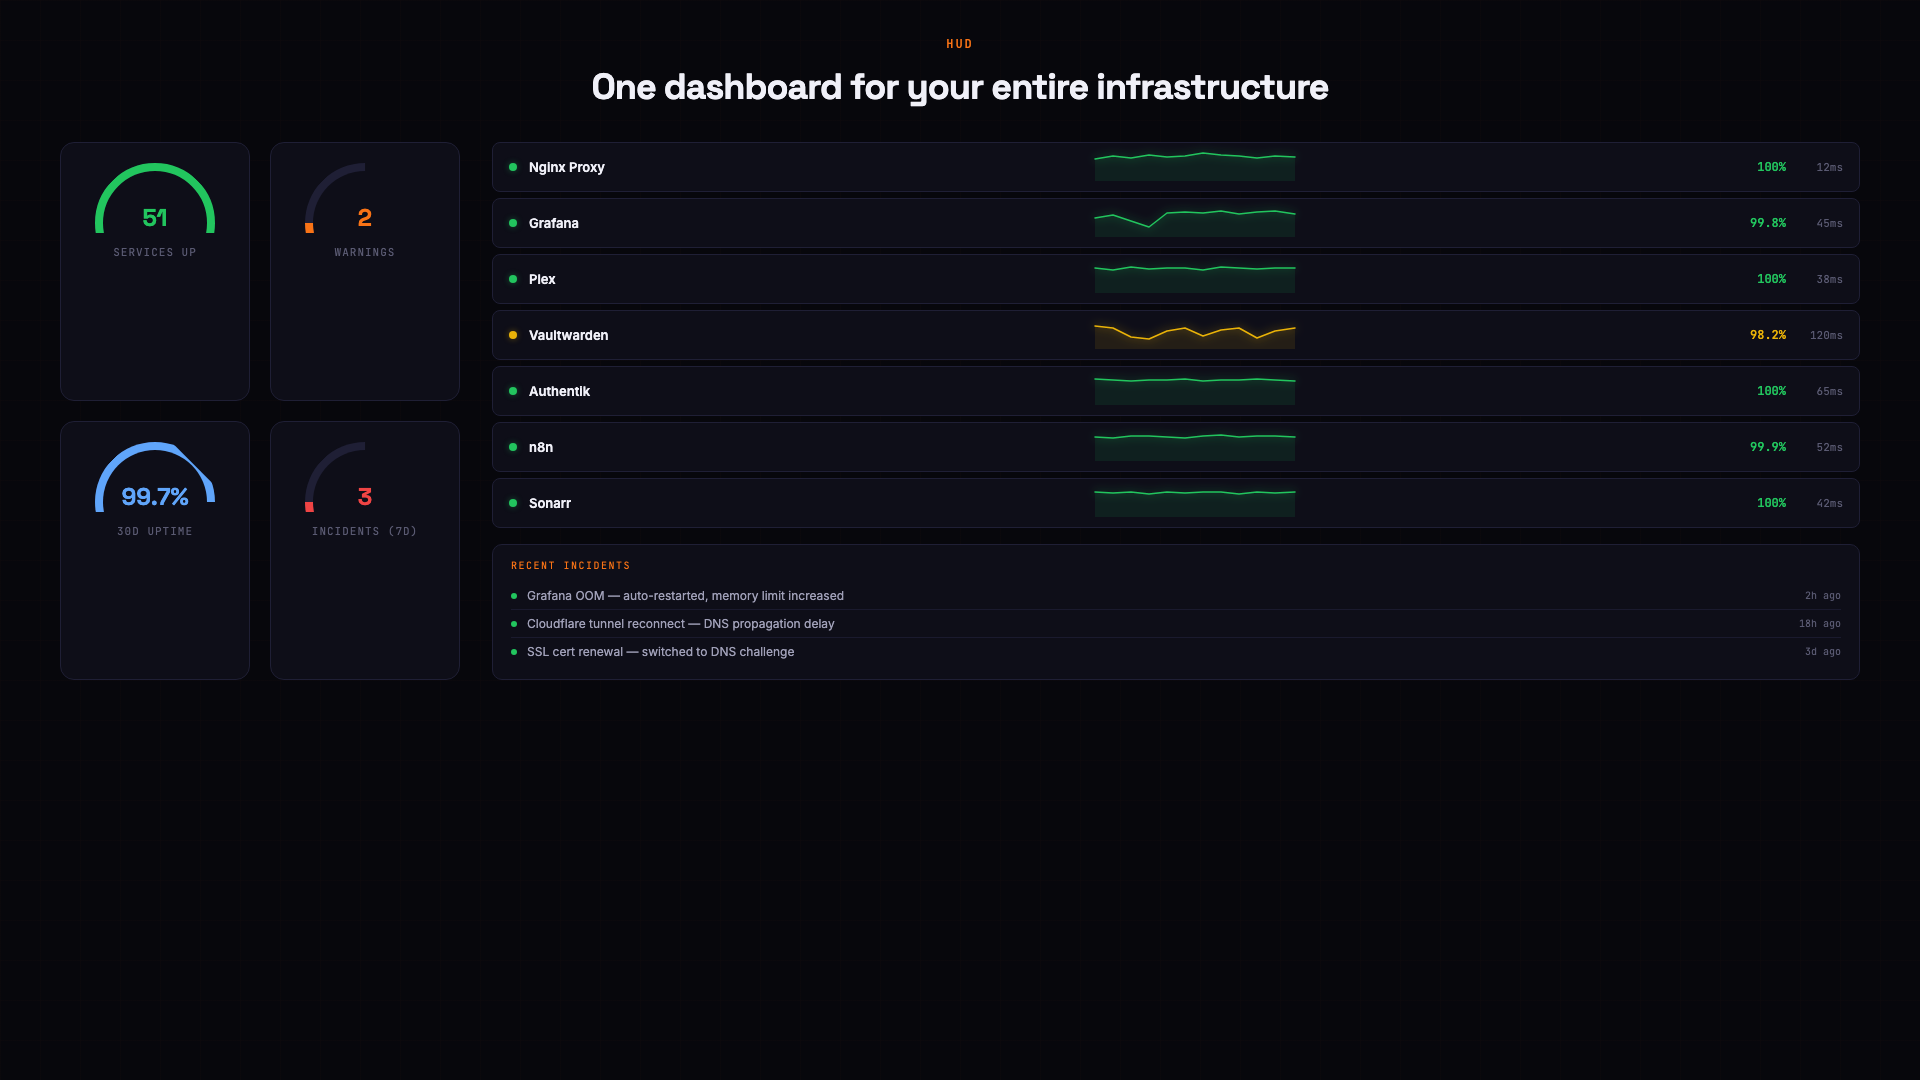
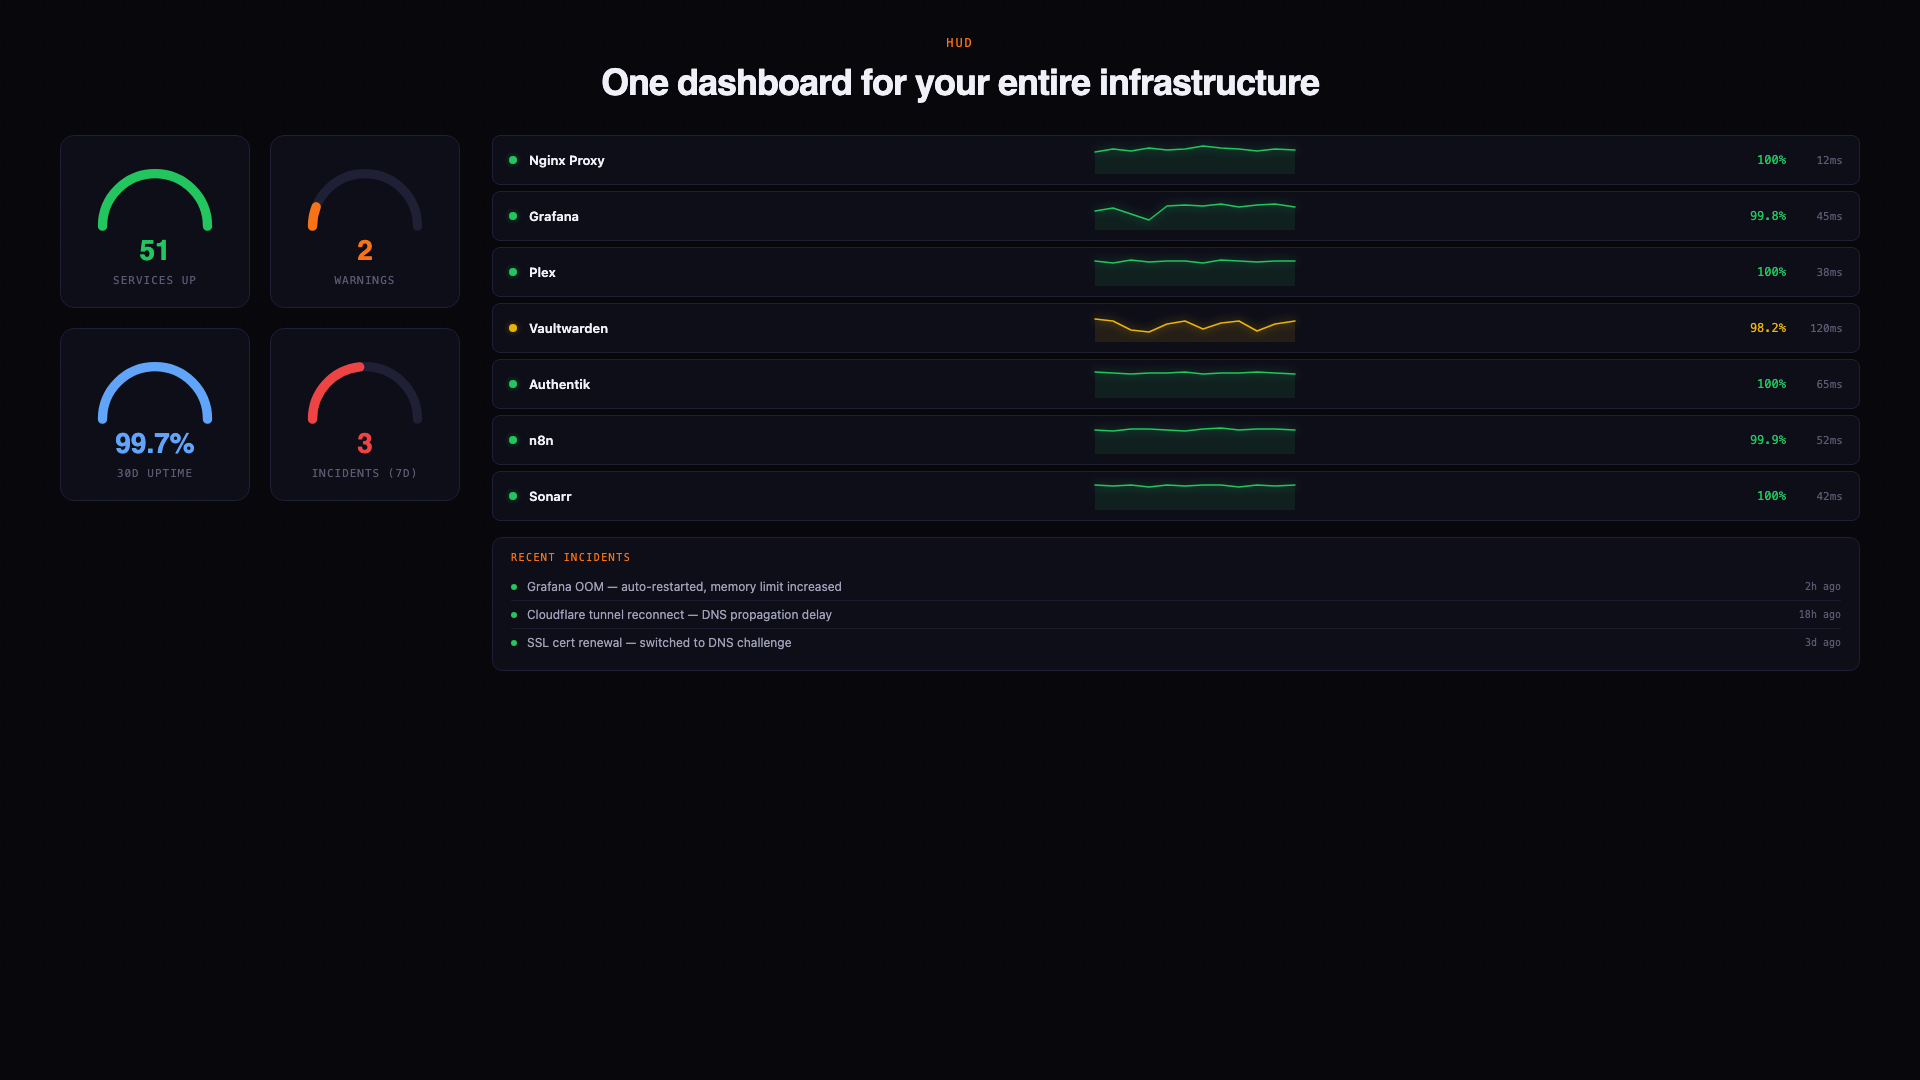
Scanner CSRF fix, HUD self-host SSRF bypass, gauge dashboard
- Skip CSRF origin check for Bearer-auth scanner API paths
- Gate SSRF blocklist on STDOUT_MODE (off in selfhost)
- Replace flat summary cards with 4 SVG arc gauges
- SVG line sparklines with gradient fill on service rows
- Recent incidents panel below service list
- Sticky gauge layout with scrollable service list
- Updated PH gallery mockup + screenshot to match real HUD

diff --git a/ph-gallery/05-hud-dashboard.html b/ph-gallery/05-hud-dashboard.html
@@ -69,6 +69,7 @@
     gap: 20px;
     flex-shrink: 0;
     width: 400px;
+    align-content: start;
   }
 
   .gauge-card {
@@ -79,57 +80,22 @@
     text-align: center;
   }
 
-  .gauge {
-    position: relative;
-    width: 120px;
-    height: 70px;
-    margin: 0 auto 12px;
-    overflow: hidden;
+  .gauge-ring {
+    display: flex;
+    flex-direction: column;
+    align-items: center;
   }
 
-  .gauge-bg {
-    position: absolute;
-    top: 0;
-    left: 0;
-    width: 120px;
-    height: 120px;
-    border-radius: 50%;
-    border: 8px solid #1F1F35;
-    border-bottom-color: transparent;
-    border-left-color: transparent;
-    transform: rotate(225deg);
+  .gauge-svg {
+    width: 140px;
+    height: 82px;
   }
-
-  .gauge-fill {
-    position: absolute;
-    top: 0;
-    left: 0;
-    width: 120px;
-    height: 120px;
-    border-radius: 50%;
-    border: 8px solid transparent;
-    border-top-color: var(--color);
-    border-right-color: var(--color);
-    border-bottom-color: transparent;
-    border-left-color: transparent;
-    transform: rotate(225deg);
-    clip-path: polygon(0 0, 100% 0, 100% 100%, 0 100%);
-  }
-
-  .gauge-fill.pct-100 { transform: rotate(225deg); border-bottom-color: var(--color); border-left-color: var(--color); }
-  .gauge-fill.pct-99 { transform: rotate(225deg); border-bottom-color: var(--color); clip-path: polygon(0 0, 100% 0, 100% 95%, 0 95%); }
-  .gauge-fill.pct-75 { transform: rotate(225deg); }
-  .gauge-fill.pct-50 { transform: rotate(225deg); border-right-color: transparent; }
 
   .gauge-value {
-    position: absolute;
-    bottom: 0;
-    left: 0;
-    right: 0;
     font-family: 'Space Grotesk', sans-serif;
-    font-size: 24px;
+    font-size: 28px;
     font-weight: 700;
-    text-align: center;
+    margin-top: -4px;
   }
 
   .gauge-label {
@@ -138,6 +104,7 @@
     color: #5A5A72;
     text-transform: uppercase;
     letter-spacing: 1px;
+    margin-top: 8px;
   }
 
   /* Right side — services + incidents */
@@ -204,9 +171,7 @@
   .spark-line.green { stroke: #22C55E; filter: drop-shadow(0 0 4px rgba(34, 197, 94, 0.6)); }
   .spark-line.yellow { stroke: #EAB308; filter: drop-shadow(0 0 4px rgba(234, 179, 8, 0.6)); }
 
-  .spark-area {
-    opacity: 0.1;
-  }
+  .spark-area { opacity: 0.1; }
   .spark-area.green { fill: #22C55E; }
   .spark-area.yellow { fill: #EAB308; }
 
@@ -288,40 +253,52 @@
   </div>
 
   <div class="dashboard">
-    <!-- Left: Gauge dials -->
+    <!-- Left: SVG Gauge dials -->
     <div class="gauges">
       <div class="gauge-card">
-        <div class="gauge">
-          <div class="gauge-bg"></div>
-          <div class="gauge-fill pct-100" style="--color: #22C55E;"></div>
-          <div class="gauge-value" style="color: #22C55E;">51</div>
+        <div class="gauge-ring">
+          <svg viewBox="0 0 120 70" class="gauge-svg">
+            <path d="M 15 60 A 45 45 0 1 1 105 60" fill="none" stroke="#1F1F35" stroke-width="8" stroke-linecap="round" />
+            <path d="M 15 60 A 45 45 0 1 1 105 60" fill="none" stroke="#22C55E" stroke-width="8" stroke-linecap="round"
+              stroke-dasharray="220 999" />
+          </svg>
+          <span class="gauge-value" style="color: #22C55E;">51</span>
         </div>
         <div class="gauge-label">Services Up</div>
       </div>
 
       <div class="gauge-card">
-        <div class="gauge">
-          <div class="gauge-bg"></div>
-          <div class="gauge-fill pct-50" style="--color: #F97316;"></div>
-          <div class="gauge-value" style="color: #F97316;">2</div>
+        <div class="gauge-ring">
+          <svg viewBox="0 0 120 70" class="gauge-svg">
+            <path d="M 15 60 A 45 45 0 1 1 105 60" fill="none" stroke="#1F1F35" stroke-width="8" stroke-linecap="round" />
+            <path d="M 15 60 A 45 45 0 1 1 105 60" fill="none" stroke="#F97316" stroke-width="8" stroke-linecap="round"
+              stroke-dasharray="17 999" />
+          </svg>
+          <span class="gauge-value" style="color: #F97316;">2</span>
         </div>
         <div class="gauge-label">Warnings</div>
       </div>
 
       <div class="gauge-card">
-        <div class="gauge">
-          <div class="gauge-bg"></div>
-          <div class="gauge-fill pct-99" style="--color: #60A5FA;"></div>
-          <div class="gauge-value" style="color: #60A5FA;">99.7%</div>
+        <div class="gauge-ring">
+          <svg viewBox="0 0 120 70" class="gauge-svg">
+            <path d="M 15 60 A 45 45 0 1 1 105 60" fill="none" stroke="#1F1F35" stroke-width="8" stroke-linecap="round" />
+            <path d="M 15 60 A 45 45 0 1 1 105 60" fill="none" stroke="#60A5FA" stroke-width="8" stroke-linecap="round"
+              stroke-dasharray="217 999" />
+          </svg>
+          <span class="gauge-value" style="color: #60A5FA;">99.7%</span>
         </div>
         <div class="gauge-label">30d Uptime</div>
       </div>
 
       <div class="gauge-card">
-        <div class="gauge">
-          <div class="gauge-bg"></div>
-          <div class="gauge-fill pct-50" style="--color: #EF4444;"></div>
-          <div class="gauge-value" style="color: #EF4444;">3</div>
+        <div class="gauge-ring">
+          <svg viewBox="0 0 120 70" class="gauge-svg">
+            <path d="M 15 60 A 45 45 0 1 1 105 60" fill="none" stroke="#1F1F35" stroke-width="8" stroke-linecap="round" />
+            <path d="M 15 60 A 45 45 0 1 1 105 60" fill="none" stroke="#EF4444" stroke-width="8" stroke-linecap="round"
+              stroke-dasharray="66 999" />
+          </svg>
+          <span class="gauge-value" style="color: #EF4444;">3</span>
         </div>
         <div class="gauge-label">Incidents (7d)</div>
       </div>

diff --git a/src/lib/hud.ts b/src/lib/hud.ts
@@ -76,8 +76,10 @@ interface CheckResult {
 }
 
 export async function executeCheck(monitor: typeof tenantSchema.monitors.$inferSelect): Promise<CheckResult> {
-  // SSRF protection: block requests to internal/private networks
-  if (isBlockedTarget(monitor.target)) {
+  // SSRF protection: block requests to internal/private networks in SaaS mode.
+  // Self-host operators own the network — monitoring internal targets is the point.
+  const isSelfHost = process.env.STDOUT_MODE === 'selfhost';
+  if (!isSelfHost && isBlockedTarget(monitor.target)) {
     return { status: 'down', responseTimeMs: 0, error: 'Target address is not allowed (internal/private network)' };
   }
 

diff --git a/src/middleware.ts b/src/middleware.ts
@@ -172,7 +172,11 @@ export const onRequest = defineMiddleware(async (context, next) => {
 
   const pathname = context.url.pathname;
 
-  if (!checkOrigin(context.request)) {
+  // Skip CSRF origin check for Bearer-auth API paths — Bearer tokens are not
+  // auto-attached by browsers, so they are not vulnerable to CSRF attacks.
+  const isBearerRequest = BEARER_PATHS.some(p => pathname.startsWith(p)) &&
+    context.request.headers.get('authorization')?.startsWith('Bearer ');
+  if (!isBearerRequest && !checkOrigin(context.request)) {
     return new Response('Forbidden — origin not allowed', { status: 403 });
   }
 
